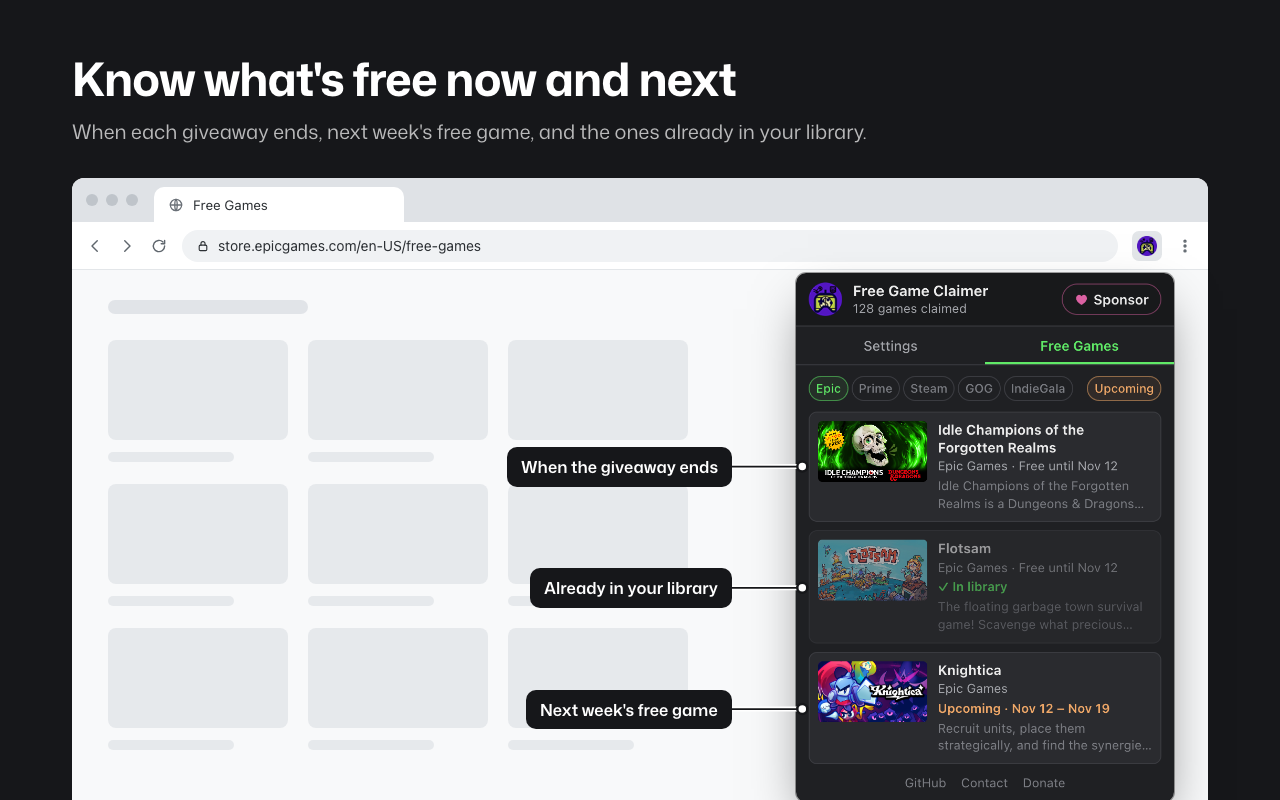
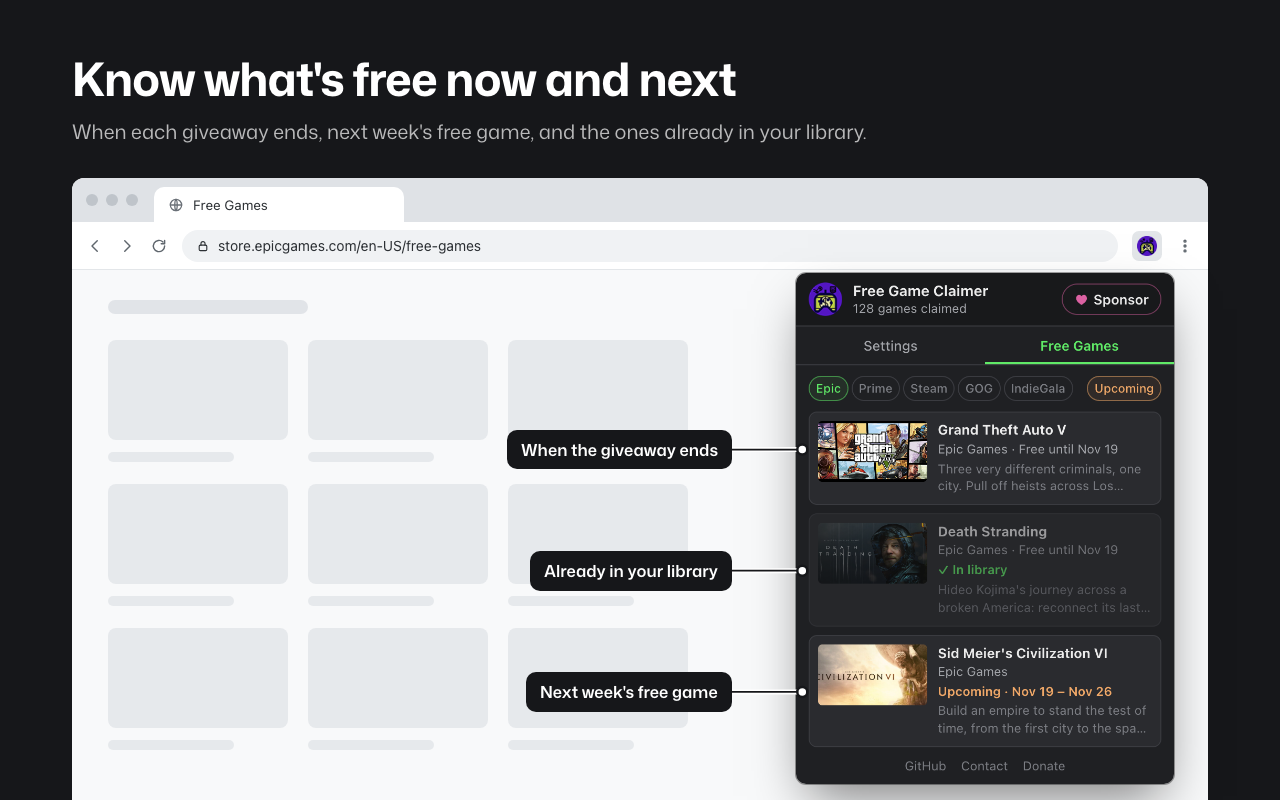
chore: show well-known past giveaways in the store images
The screenshots and marquee now show GTA V, Death Stranding and
Civilization VI (Epic), Fallout 3, Fallout: New Vegas and XCOM 2 (Prime
Gaming GOG codes) and Total War: SHOGUN 2 (Steam): each was really given
away through the store its card names, noted with dates in
tools/showcaseGames.mjs. The dates on the cards are illustrative. The
live-data fetcher goes, as nothing uses it any more.

Changed region(s): [[0.375, 0.5, 0.875, 0.7812], [0.4062, 0.7812, 0.9375, 1.0]]

diff --git a/store-assets/README.md b/store-assets/README.md
@@ -11,17 +11,16 @@ window on a flat background, with one headline and one line each.
 Run everything from `wxt-dev-wxt/` (Playwright comes from its `node_modules`):
 
 ```bash
-npm run build                                            # the popup the images show
-npx vite-node --config vitest.canary.config.ts ../store-assets/tools/fetchDemoData.ts   # optional: today's giveaways
-node ../store-assets/tools/capture.mjs                   # popup captures -> store-assets/raw-ui/
-node ../store-assets/tools/render.mjs                    # compositions -> store-assets/chrome/
+npm run build                            # the popup the images show
+node ../store-assets/tools/capture.mjs   # popup captures -> store-assets/raw-ui/
+node ../store-assets/tools/render.mjs    # compositions -> store-assets/chrome/
 ```
 
-- `tools/fetchDemoData.ts` reads today's giveaways, signed out, with the extension's own
-  parsers (Epic, Steam, IndieGala, and Prime Gaming from a Luna page; it opens a browser
-  window) and saves `tools/demoData.json`. Skip it to keep the current data. When the
-  games change, `capture.mjs` names the Prime Gaming and IndieGala titles it shows: pick
-  ones from the new data.
+- `tools/showcaseGames.mjs` is the games the popup shows: well-known titles that really
+  were given away through the store each card names (GTA V, Death Stranding and
+  Civilization VI on Epic; Fallout 3, Fallout: New Vegas and XCOM 2 as Prime Gaming GOG
+  codes; Total War: SHOGUN 2 on Steam), with when, in comments. Their dates are
+  illustrative. Keep it to games that were really free there.
 - `tools/capture.mjs` loads a copy of `dist/chrome-mv3` with no background (nothing is
   checked or claimed) and the optional hosts granted, seeds storage for each view, and
   saves the popup at 2x plus the positions the callouts point at (`raw-ui/rects.js`).
